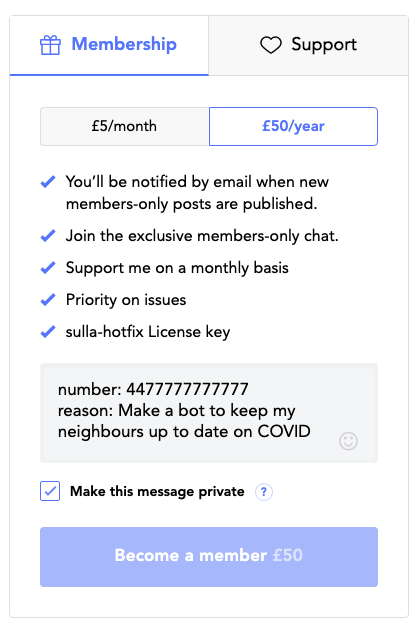
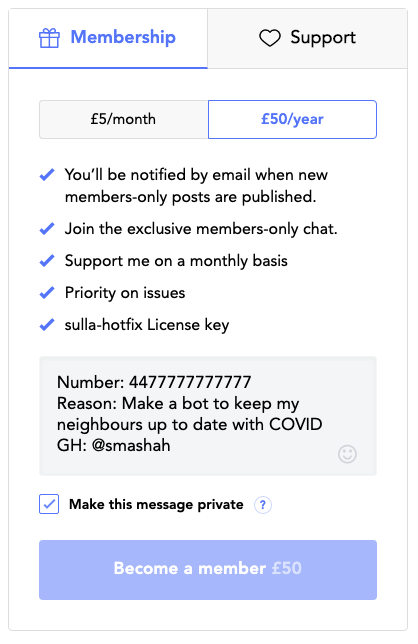
updated docs with release image

diff --git a/README.md b/README.md
@@ -45,6 +45,14 @@ function start(client) {
 
 ###### @open-wa/wa-automate will remember the session so there is no need to authenticate everytime.
 
+### Latest Changes
+
+With the constant updates from Whatsapp. It is advisable to always use the latest version of `@open-wa/wa-automate`.
+
+   <div align="center">
+   <img src="https://raw.githubusercontent.com/open-wa/wa-automate-nodejs/master/release.png"/>
+   </div>
+
 ### Functions list
 
 | Function                          | Description | Implemented |
@@ -119,7 +127,7 @@ How to get an License key:
 1. Go to [BMAC](https://www.buymeacoffee.com/smashah).
 2. Click on 'Membership'. For the insiders program, you do **not** need to get a membership.
 3. Select your payment preference (monthly/annually).
-5. Add the phone number you want to assign to the License Key in the notes, along with the use case for this functionality
+5. Add the phone number you want to assign to the License Key in the notes, along with the use case for this functionality and your github username
 6. Select "Make this message private."
 
    <div align="center">
